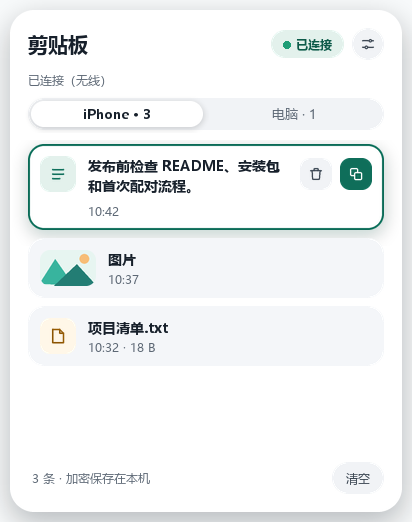
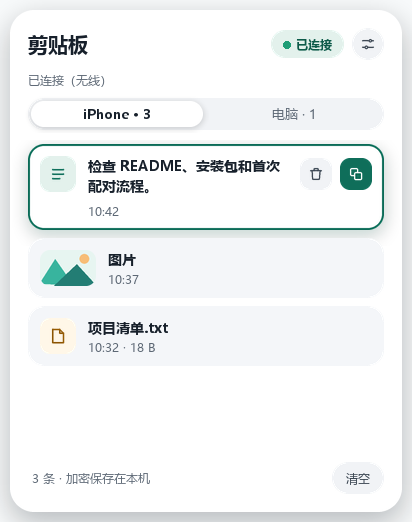
Refresh the bilingual README screenshots for CopiaGo 1.1.0

Changed region(s): [[0.2039, 0.3065, 0.699, 0.3678]]

diff --git a/README.md b/README.md
@@ -19,9 +19,13 @@ The installer and CopiaGo use your Windows display language to choose English or
 
 | First-time pairing | System tray popup | Clipboard history |
 | --- | --- | --- |
-| [![The CopiaGo guide for pairing an iPhone](docs/images/first-pairing.png)](docs/images/first-pairing.png) | [![Sync settings in the CopiaGo tray popup](docs/images/tray-popup.png)](docs/images/tray-popup.png) | [![CopiaGo clipboard history with text, an image, and a file](docs/images/clipboard-history.png)](docs/images/clipboard-history.png) |
+| [![The CopiaGo guide for pairing an iPhone](docs/images/first-pairing-en.png)](docs/images/first-pairing-en.png) | [![The CopiaGo tray popup with clipboard history off](docs/images/tray-popup-en.png)](docs/images/tray-popup-en.png) | [![CopiaGo clipboard history with text, an image, and a file](docs/images/clipboard-history-en.png)](docs/images/clipboard-history-en.png) |
 
-These screenshots show CopiaGo 1.0.0 running with its Chinese interface. The connection state and clipboard entries use sample data. Click an image to view it at full size.
+### Interface language
+
+[![CopiaGo Settings showing System, Simplified Chinese, and English language choices](docs/images/language-en.png)](docs/images/language-en.png)
+
+These screenshots show CopiaGo 1.1.0 with a sample connection and clipboard history. Click an image to view it at full size.
 
 ## What syncs
 

diff --git a/README.zh-CN.md b/README.zh-CN.md
@@ -19,9 +19,13 @@
 
 | 首次配对 | 托盘弹窗 | 剪贴板历史 |
 | --- | --- | --- |
-| [![CopiaGo 首次配对引导](docs/images/first-pairing.png)](docs/images/first-pairing.png) | [![CopiaGo 托盘弹窗中的同步设置](docs/images/tray-popup.png)](docs/images/tray-popup.png) | [![CopiaGo 剪贴板中的文字、图片和文件记录](docs/images/clipboard-history.png)](docs/images/clipboard-history.png) |
+| [![CopiaGo 首次配对引导](docs/images/first-pairing.png)](docs/images/first-pairing.png) | [![CopiaGo 的托盘弹窗，历史记录处于关闭状态](docs/images/tray-popup.png)](docs/images/tray-popup.png) | [![CopiaGo 剪贴板中的文字、图片和文件记录](docs/images/clipboard-history.png)](docs/images/clipboard-history.png) |
 
-截图来自运行中的 CopiaGo 1.0.0，连接状态和历史记录使用示例数据。点击图片可查看原图。
+### 切换界面语言
+
+[![CopiaGo 设置里的跟随系统、简体中文和 English 选项](docs/images/language.png)](docs/images/language.png)
+
+截图来自运行中的 CopiaGo 1.1.0，连接状态和历史记录使用示例数据。点击图片可查看原图。
 
 ## 同步范围
 
